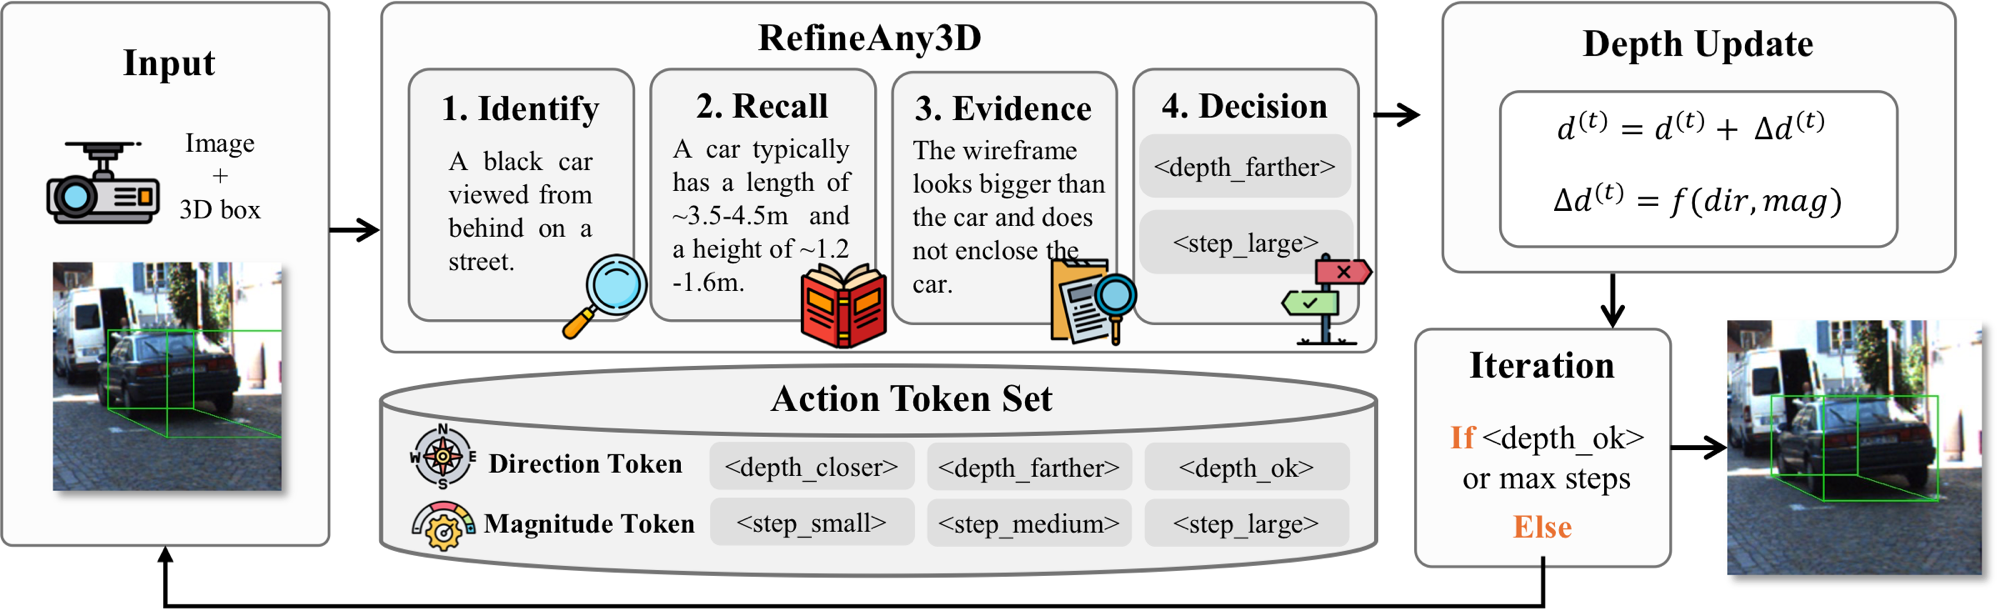
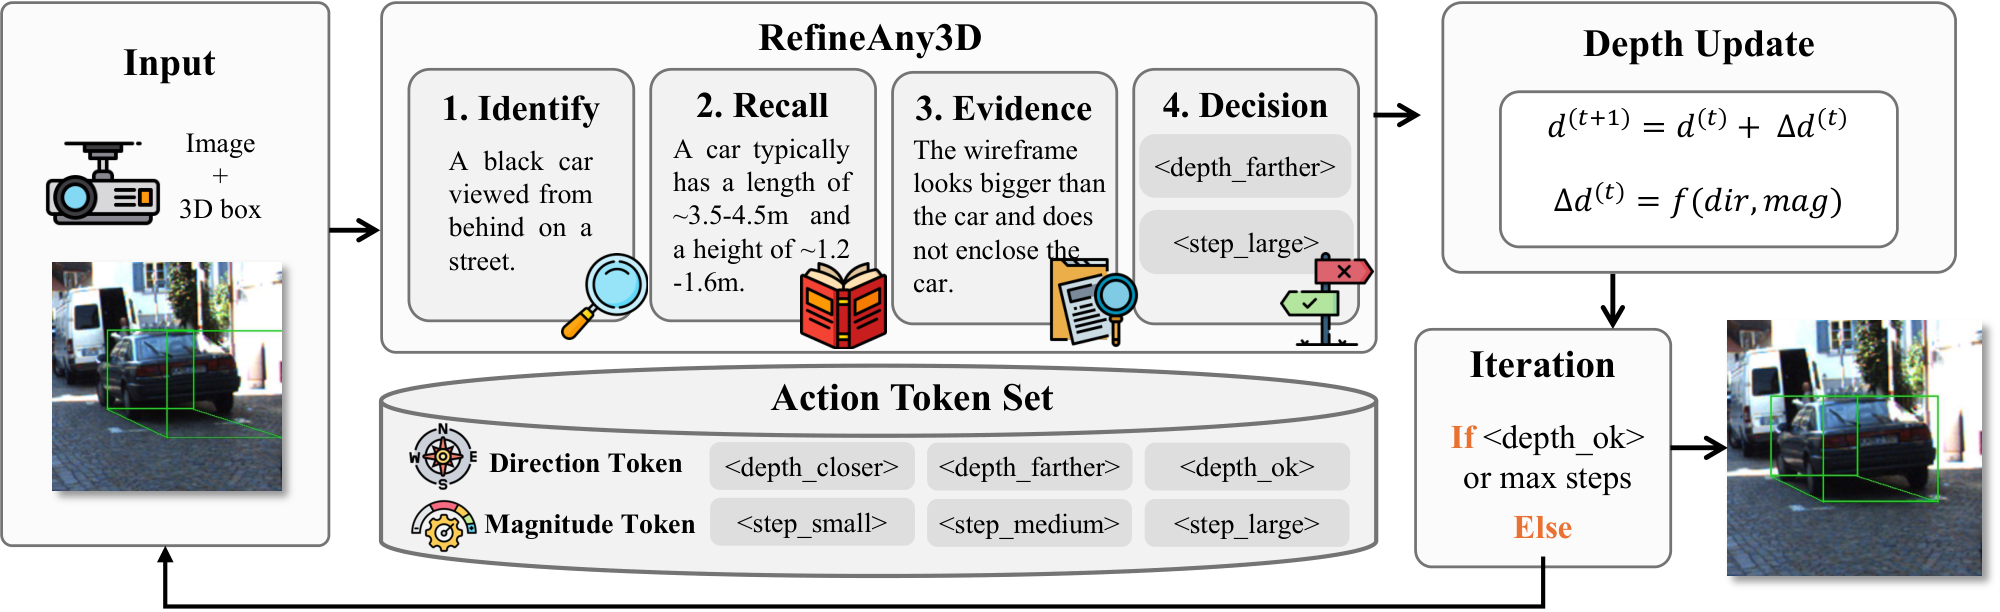
Update teaser and framework figures; use the paper's step sizes in the demo

diff --git a/index.html b/index.html
@@ -79,7 +79,7 @@
     <!-- ───────── TEASER + TL;DR ───────── -->
     <section class="teaser-wrap">
       <figure class="card figure teaser reveal">
-        <a href="static/images/teaser.png" data-lightbox><img src="static/images/teaser.png" alt="RefineAny3D overview: depth is the bottleneck, reason-act-refine loop, semantic alignment, and results" width="2000" height="1167"></a>
+        <a href="static/images/teaser.png" data-lightbox><img src="static/images/teaser.png" alt="RefineAny3D overview: depth is the bottleneck, reason-act-refine loop, semantic alignment, and results" width="2000" height="1168"></a>
         <figcaption>
           <b>(a)</b> Object depth is the bottleneck: ground-truth depth adds +29.92 AP<sub>3D</sub> on Omni3D, while a depth foundation model (DFM) <em>lowers</em> it by 3.68.
           <b>(b)</b> A VLM emits action tokens that iteratively adjust depth.
@@ -161,8 +161,8 @@
       </div>
       <p class="note reveal">
         An illustrative simulation of the refinement loop, not the trained model: the action here is computed from the known
-        true depth, and the step sizes are placeholder fractions of <i>s</i><sub>obj</sub>. In RefineAny3D, the VLM makes this
-        judgment from the rendered image alone.
+        true depth. The step sizes follow the paper (0.20, 0.55 and 1.10 &times; <i>s</i><sub>obj</sub> for small, medium
+        and large). In RefineAny3D, the VLM makes this judgment from the rendered image alone.
       </p>
     </section>
 
@@ -197,7 +197,7 @@
       </div>
 
       <figure class="card figure reveal">
-        <a href="static/images/framework.png" data-lightbox><img src="static/images/framework.png" alt="Overview of the RefineAny3D framework" loading="lazy" width="2000" height="611"></a>
+        <a href="static/images/framework.png" data-lightbox><img src="static/images/framework.png" alt="Overview of the RefineAny3D framework" loading="lazy" width="2000" height="612"></a>
         <figcaption>
           <b>Overview of RefineAny3D.</b> The candidate box is rendered as a wireframe on the image. The VLM reasons in
           four steps (identify, recall, evidence, decision) and emits a direction token and a magnitude token. The depth is

diff --git a/static/js/main.js b/static/js/main.js
@@ -157,8 +157,8 @@
   var OBJ = { x: 0.35, W: 1.8, H: 1.5, L: 4.2 };
   var Z_TRUE = 10;
   var S_OBJ = (OBJ.W + OBJ.H + OBJ.L) / 3;  // 2.5 m
-  var ALPHA = { small: 0.4, medium: 1.2, large: 2.5 };   // illustrative only
-  var OK_TOL = 0.2, MAX_STEPS = 5;
+  var ALPHA = { small: 0.20, medium: 0.55, large: 1.10 };  // paper, Appendix: bucket midpoints
+  var OK_TOL = 0.10, MAX_STEPS = 8;                        // |r| <= 0.10 is <depth_ok>
 
   var slider = document.getElementById('s-d');
   var outD = document.getElementById('o-d');
@@ -227,8 +227,8 @@
 
   function judge(d) {
     var e = (d - Z_TRUE) / S_OBJ;
-    if (Math.abs(e) < OK_TOL) return { dir: 'ok', mag: null, e: e };
-    var mag = Math.abs(e) < 0.8 ? 'small' : Math.abs(e) < 2 ? 'medium' : 'large';
+    if (Math.abs(e) <= OK_TOL + 1e-9) return { dir: 'ok', mag: null, e: e };
+    var mag = Math.abs(e) < 0.30 ? 'small' : Math.abs(e) < 0.80 ? 'medium' : 'large';
     return { dir: e > 0 ? 'closer' : 'farther', mag: mag, e: e };
   }
   function tokenHTML(j) {
